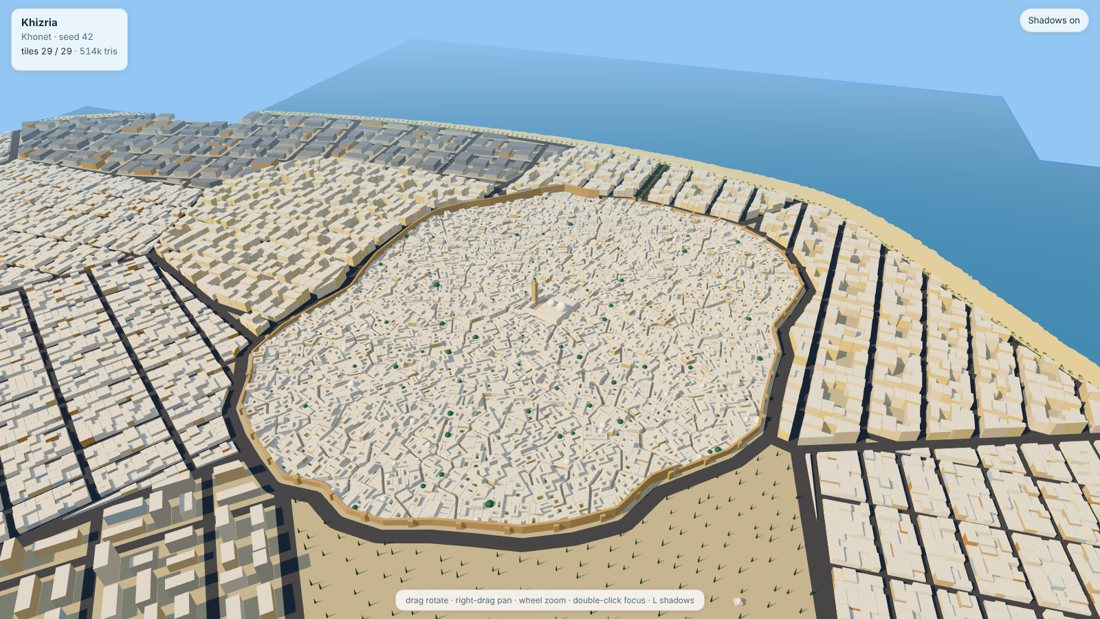
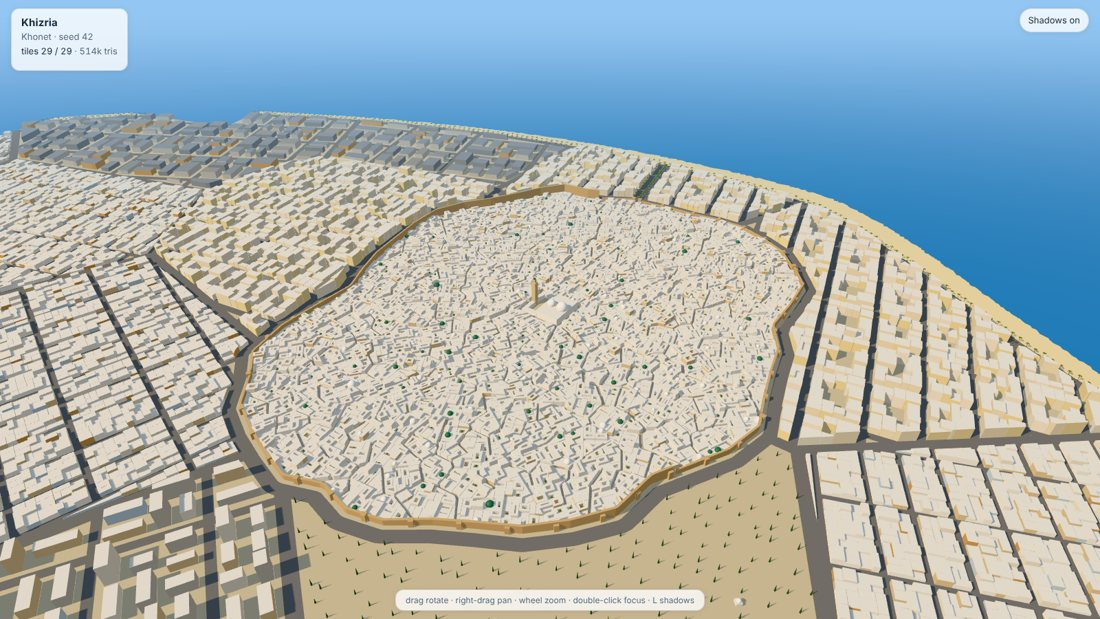
Viewer: sea to the horizon and street-level camera spots
- The viewer extends the sea past the loaded tiles and uses camera spots
  written by the generator (`views` in tiles/index.json): `street` on the
  boulevard near the center, `souk` in the old town's market street.
- The generator picks those spots near the city center, off the middle
  row of trees on wide streets.
- README shows the old town in 3D and the boulevard at street level, and
  explains snapshots.

Claude-Session: https://claude.ai/code/session_01HrPARdqxfBeg8N4TW584qt

diff --git a/tools/viewer/index.html b/tools/viewer/index.html
@@ -107,7 +107,8 @@ function fail(message) {
 }
 
 // URL parameters: radius (meters around the focus, default 2500), shadows=0, ui=0 (hide the overlay),
-// view=aerial|street|top, or cam=x,y,z and look=x,y,z in generator coordinates (meters, z up).
+// view=aerial|street|top or a camera spot named in the index "views", or cam=x,y,z and look=x,y,z
+// in generator coordinates (meters, z up).
 const RADIUS = Math.max(0, num('radius', 2500));
 const MAX_INFLIGHT = 6;
 const SUN_AZIMUTH = 225;   // degrees clockwise from north: south-west
@@ -225,7 +226,15 @@ function setView(position, target) {
 
 const applyView = (cam, look) => setView(toThree(...cam), toThree(...look));
 
+// A camera spot written by the generator: index.views[name] = { cam: [x, y, z], look: [x, y, z] }.
+function indexView(index, name) {
+  const v = index.views && Object.prototype.hasOwnProperty.call(index.views, name) ? index.views[name] : null;
+  const ok = (a) => Array.isArray(a) && a.length === 3 && a.every(Number.isFinite);
+  return v && ok(v.cam) && ok(v.look) ? { cam: v.cam, look: v.look } : null;
+}
+
 function presetView(name) {
+  if (!['aerial', 'street', 'top'].includes(name)) console.warn(`unknown view "${name}", using aerial`);
   const at = (bearing, dist, up) => {
     const b = THREE.MathUtils.degToRad(bearing);
     return [focus.x + Math.sin(b) * dist, focus.y + Math.cos(b) * dist, focus.z + up];
@@ -236,14 +245,15 @@ function presetView(name) {
   return { cam: at(160, 900, 650), look: ground };
 }
 
-function initialView() {
+// cam/look in the URL win over a view from the index, which wins over the built-in presets
+function initialView(index) {
   const cam = triple('cam');
   const look = triple('look');
   if (cam) return { cam, look: look || [focus.x, focus.y, focus.z] };
-  const view = presetView(q.get('view'));
+  const name = q.get('view') || 'aerial';
+  const view = indexView(index, name) || presetView(name);
   if (!look) return view;
-  const dx = view.cam[0] - focus.x, dy = view.cam[1] - focus.y, dz = view.cam[2] - focus.z;
-  return { cam: [look[0] + dx, look[1] + dy, look[2] + dz], look };
+  return { cam: look.map((v, i) => v + view.cam[i] - view.look[i]), look };
 }
 
 // ---------------------------------------------------------------- tiles
@@ -254,7 +264,23 @@ const sharedMaterials = new Map();
 let extent = 500;          // distance from the focus to the farthest loaded corner
 let lowest = Infinity;     // lowest point of any loaded tile; the camera stays above it
 const tileBase = new URL('data/tiles/', location.href);
-const wantsStreet = q.get('view') === 'street' && !triple('cam') && !triple('look');
+
+// The tiles' water ends at the last loaded tile: an opaque copy of the water just below sea level
+// carries the sea on to the horizon, where the fog takes over. On land the terrain hides it.
+const SEA_SIZE = 60000;
+let sea = null;
+
+function addSea(water) {
+  if (sea) return;
+  const material = water.clone();
+  // a small constant depth offset lets terrain at sea level win; a slope-scaled one would hide the plane at grazing angles
+  Object.assign(material, { name: 'sea', transparent: false, opacity: 1, depthWrite: true,
+                            polygonOffset: true, polygonOffsetFactor: 0, polygonOffsetUnits: 2 });
+  sea = new THREE.Mesh(new THREE.PlaneGeometry(SEA_SIZE, SEA_SIZE).rotateX(-Math.PI / 2), material);
+  sea.position.y = -0.05;
+  sea.receiveShadow = true;
+  scene.add(sea);
+}
 
 // One material per look, shared by all tiles; water gets a glossy, slightly transparent finish.
 function shared(material) {
@@ -279,6 +305,10 @@ function addTile(gltf) {
     o.material = shared(o.material);
     o.castShadow = !o.material.userData.water;
     o.receiveShadow = true;
+    if (o.material.userData.water && !sea) {
+      o.geometry.computeBoundingBox();
+      if (Math.abs(o.geometry.boundingBox.max.y) < 0.5) addSea(o.material);   // water at sea level, not a lake
+    }
     stats.triangles += (o.geometry.index ? o.geometry.index.count : o.geometry.attributes.position.count) / 3;
   });
   tiles.add(root);
@@ -352,7 +382,7 @@ function placeStreetCamera() {
   if (best) setView(best.eye, best.eye.clone().addScaledVector(best.dir, THREE.MathUtils.clamp(best.clear, 8, 40)));
 }
 
-async function loadTiles(list) {
+async function loadTiles(list, wantsStreet) {
   let next = 0;
   let nearLeft = wantsStreet ? list.filter((t) => t.d <= 100).length : 0;
   const worker = async () => {
@@ -531,14 +561,16 @@ async function boot() {
   $('meta').textContent = [f.name, index.seed != null ? 'seed ' + index.seed : ''].filter(Boolean).join(' \u00b7 ');
   document.title = world + ' - citygen';
 
-  const view = initialView();
+  const view = initialView(index);
   applyView(view.cam, view.look);
 
   const list = selectTiles(index);
   stats.requested = list.length;
   if (list.length) extent = Math.max(...list.map((t) => t.far));
   updateHud();
-  await loadTiles(list);
+  // with no spot from the index, the street preset looks for open ground once the nearby tiles are in
+  const wantsStreet = q.get('view') === 'street' && !triple('cam') && !triple('look') && !indexView(index, 'street');
+  await loadTiles(list, wantsStreet);
   loadDone = true;
   dirty = true;
   updateHud();

diff --git a/citygen/build.py b/citygen/build.py
@@ -44,16 +44,25 @@ def select_area(world, area: str) -> tuple:
     return region, focus, needed
 
 
-def camera_views(plan, terrain) -> dict:
-    """Eye-level camera spots for viewers: on the boulevard and in a souk (generator coords)."""
+def camera_views(plan, terrain, reach: float = 600.0) -> dict:
+    """Eye-level camera spots near the city center (generator coords): the boulevard, a souk."""
+    center = Point(plan.settlement.x, plan.settlement.y)
     views = {}
-    for name, kinds in (("street", ("boulevard", "arterial")), ("souk", ("souk",))):
-        streets = [st for st in plan.streets if st.kind in kinds and st.line.length > 60.0]
-        if not streets:
+    for name, kinds in (("street", ("boulevard", "arterial", "street")), ("souk", ("souk",))):
+        for kind in kinds:  # the first kind with a long street near the center wins
+            near = [st for st in plan.streets
+                    if st.kind == kind and st.line.length > 60.0 and st.line.distance(center) < reach]
+            if near:
+                break
+        else:
             continue
-        line = max(streets, key=lambda st: st.line.length).line
-        a = line.interpolate(0.3, normalized=True)
-        b = line.interpolate(min(line.length, line.project(a) + 50.0))
+        street = max(near, key=lambda st: st.line.length)
+        line = street.line
+        if street.width > 16.0:  # wide street: step off the middle row of trees
+            line = line.offset_curve(street.width / 4)
+        d = min(max(line.project(center), 10.0), line.length - 10.0)
+        step = 50.0 if line.length - d >= d else -50.0  # look along the longer side
+        a, b = line.interpolate(d), line.interpolate(min(max(d + step, 0.0), line.length))
         ga, gb = float(terrain.height(a.x, a.y)), float(terrain.height(b.x, b.y))
         views[name] = {"cam": [round(a.x, 1), round(a.y, 1), round(ga + 1.7, 1)],
                        "look": [round(b.x, 1), round(b.y, 1), round(gb + 4.0, 1)]}

diff --git a/tools/snapshot.py b/tools/snapshot.py
@@ -14,6 +14,7 @@ import re
 import sys
 import time
 from pathlib import Path
+from urllib.parse import quote
 
 ROOT = Path(__file__).resolve().parents[1]
 if str(ROOT) not in sys.path:
@@ -26,7 +27,6 @@ INSTALL_HINT = ("Playwright is not installed. Install it with:\n"
                 "  playwright install chromium")
 CDN = re.compile(r"https://cdn\.jsdelivr\.net/npm/three@[^/]+/(.*)")
 SOFTWARE_GL = ["--use-angle=swiftshader", "--enable-unsafe-swiftshader", "--ignore-gpu-blocklist"]
-VIEWS = ("aerial", "street", "top")
 BROWSER_GLOBS = (
     "chromium_headless_shell-*/chrome-*/headless_shell", "chromium_headless_shell-*/chrome-*/headless_shell.exe",
     "chromium-*/chrome-linux*/chrome", "chromium-*/chrome-win*/chrome.exe",
@@ -118,7 +118,7 @@ def snapshot(out_dir: str | Path, png_path: str | Path, view: str = "aerial", wi
 
     png = Path(png_path)
     png.parent.mkdir(parents=True, exist_ok=True)
-    params = [] if "view=" in query else [f"view={view}"]
+    params = [] if "view=" in query else [f"view={quote(view)}"]
     if query:
         params.append(query.lstrip("?&"))
     problems: list[str] = []
@@ -156,7 +156,8 @@ def main(argv: list[str] | None = None) -> int:
     ap = argparse.ArgumentParser(description="Screenshot a generated city with the web viewer.")
     ap.add_argument("out_dir", help="generator output directory (contains tiles/index.json)")
     ap.add_argument("--png", default=None, help="output file (default: snapshot_<view>.png)")
-    ap.add_argument("--view", choices=VIEWS, default="aerial", help="camera preset (default: aerial)")
+    ap.add_argument("--view", default="aerial",
+                    help="aerial, street, top or a name from the views in tiles/index.json (default: aerial)")
     ap.add_argument("--width", type=int, default=1600)
     ap.add_argument("--height", type=int, default=900)
     ap.add_argument("--query", default="", help='extra viewer parameters, e.g. "radius=1000&shadows=0&ui=0"')

diff --git a/tools/blender_import.py b/tools/blender_import.py
@@ -162,7 +162,7 @@ def add_sun(focus: Vector) -> None:
     toward_sun = Vector((math.sin(az) * math.cos(el), math.cos(az) * math.cos(el), math.sin(el)))
     drop("City Sun", bpy.data.lights)
     light = bpy.data.lights.new("City Sun", "SUN")
-    light.energy = 4.0
+    light.energy = 3.0
     light.color = (1.0, 0.93, 0.8)
     light.angle = math.radians(0.6)
     sun = link_new("City Sun", light)

diff --git a/README.md b/README.md
@@ -7,9 +7,11 @@ boulevards, ports, apartment blocks, villas, parks and cemeteries. You get the r
 ways: **maps** (images), **data files** for stories and games, and **3D files** for Blender and
 game engines.
 
-| The country | The capital | In 3D |
-|---|---|---|
-| ![country](docs/img/country.jpg) | ![capital](docs/img/capital.jpg) | ![3d](docs/img/3d.jpg) |
+| The country | The capital |
+|---|---|
+| ![country](docs/img/country.jpg) | ![capital](docs/img/capital.jpg) |
+| **The old town in 3D** | **On the boulevard** |
+| ![3d](docs/img/3d.jpg) | ![street](docs/img/street.jpg) |
 
 ## How it works, in one minute
 
@@ -35,7 +37,11 @@ number. A different seed gives a different country. So:
    python -m citygen view
    ```
    Your web browser opens the city in 3D. Drag to turn, right-drag to move, use the wheel to zoom,
-   and double-click a spot to fly around it. The images are in `output/<country>-<seed>/maps/`.
+   and double-click a spot to fly around it. Press `L` to switch shadows on or off. The images are
+   in `output/<country>-<seed>/maps/`.
+
+To save 3D pictures without opening a browser (handy for checks): `pip install playwright`,
+then `python -m citygen snapshot --view aerial` (or `street`, `souk`, `top`).
 
 Tip: `python -m citygen build --quick` makes a small test world in under a minute.
 
